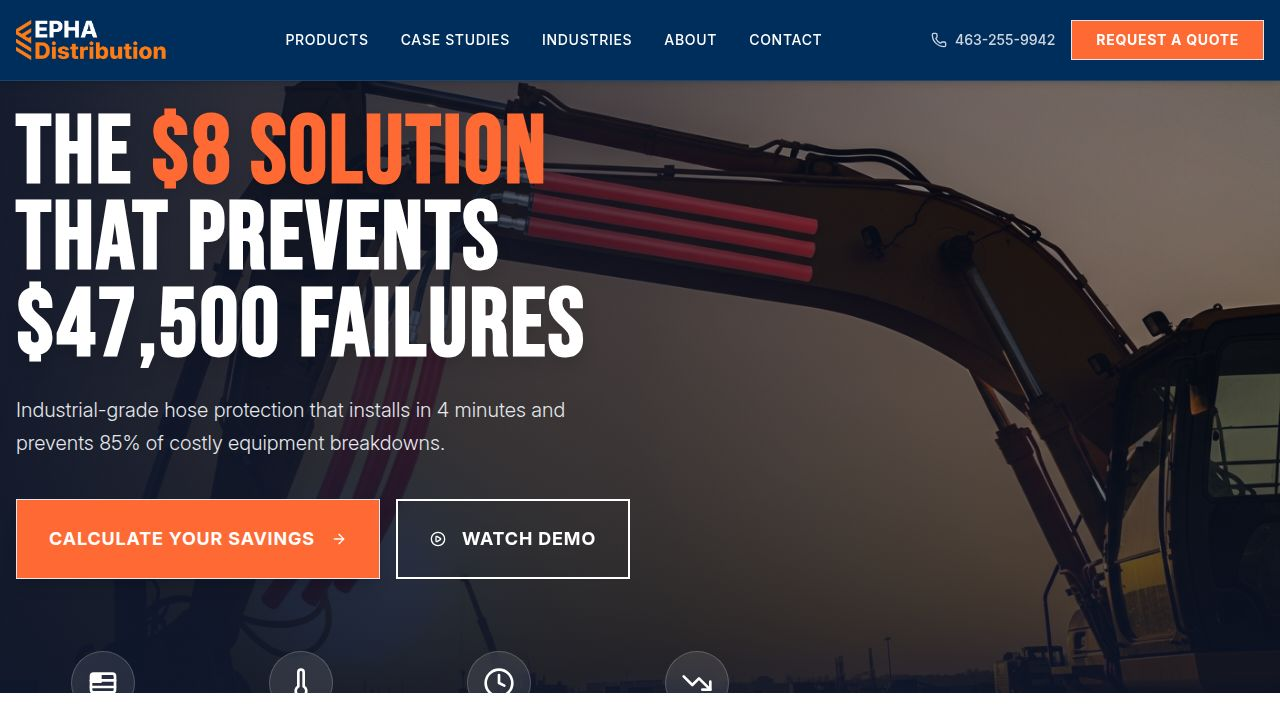
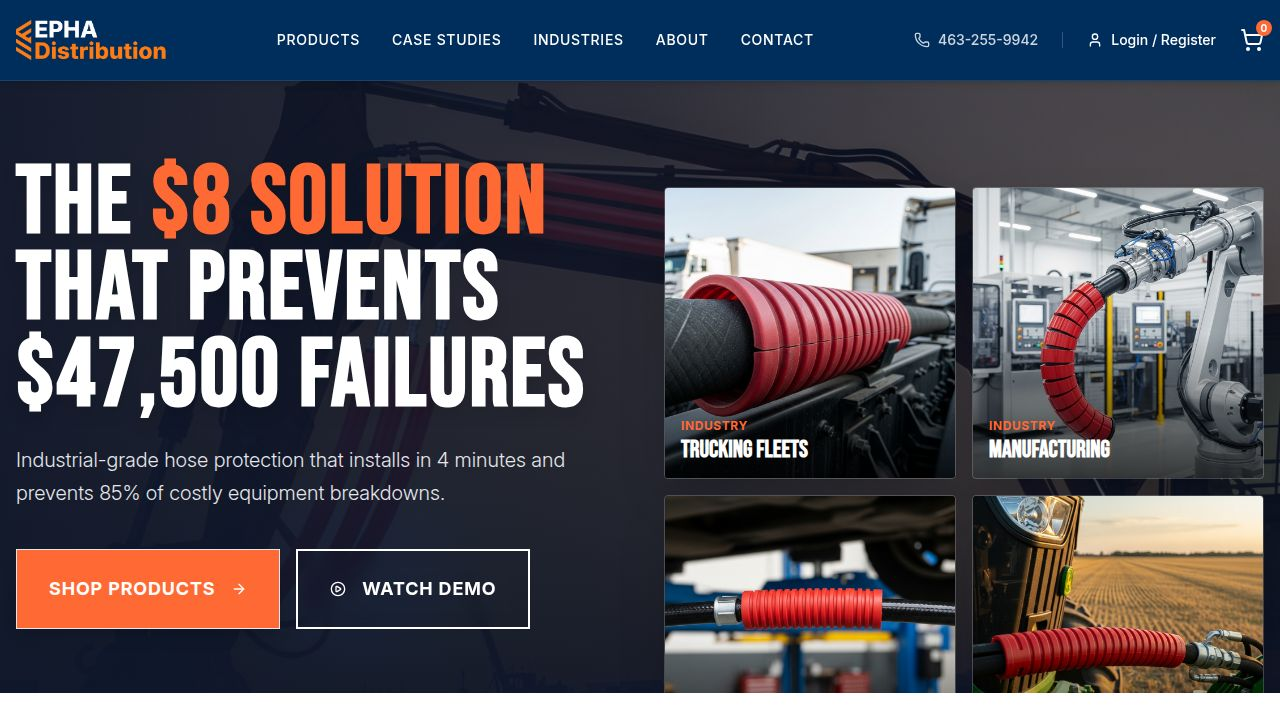
Add product usage photos to the hero section in a grid layout
Update Hero component to include a 2x2 grid of product usage images on the right side, enhancing visual context.

Replit-Commit-Author: Agent
Replit-Commit-Session-Id: 0da39d99-1b5d-47ea-ae14-3717eddf603a
Replit-Commit-Checkpoint-Type: full_checkpoint
Replit-Commit-Event-Id: 94fc312d-3253-4561-ba65-cebd13b98155
Replit-Commit-Screenshot-Url: https://storage.googleapis.com/screenshot-production-us-central1/6fe40cc1-d4aa-4ef6-a21b-6d0a266b7cfa/0da39d99-1b5d-47ea-ae14-3717eddf603a/wERJvKO
Replit-Helium-Checkpoint-Created: true

diff --git a/client/src/components/Hero.tsx b/client/src/components/Hero.tsx
@@ -1,6 +1,10 @@
 import { Button } from "@/components/ui/button";
 import { ArrowRight, Shield, Thermometer, Clock, TrendingDown, PlayCircle } from "lucide-react";
 import heroImage from "@assets/generated_images/excavator_at_golden_hour_with_red_hose_protectors.png";
+import truckingImage from "@assets/generated_images/hose_protector_on_semi-truck_hydraulic_line.png";
+import manufacturingImage from "@assets/generated_images/hose_protector_in_manufacturing_plant.png";
+import autoRepairImage from "@assets/generated_images/hose_protector_in_auto_repair_shop.png";
+import agImage from "@assets/generated_images/hose_protector_on_agricultural_tractor.png";
 
 export function Hero() {
   return (
@@ -12,11 +16,11 @@ export function Hero() {
       />
       
       {/* Gradient Overlay */}
-      <div className="absolute inset-0 bg-gradient-to-r from-slate-900/95 via-slate-900/60 to-transparent" />
+      <div className="absolute inset-0 bg-gradient-to-r from-slate-900/95 via-slate-900/80 to-slate-900/40" />
       <div className="absolute inset-0 bg-gradient-to-t from-slate-900/80 to-transparent" />
 
-      <div className="container relative mx-auto h-full flex flex-col justify-center px-4 pt-20">
-        <div className="max-w-3xl space-y-6">
+      <div className="container relative mx-auto h-full grid lg:grid-cols-2 gap-12 items-center px-4 pt-20">
+        <div className="space-y-6">
           <h1 className="font-heading text-6xl md:text-7xl lg:text-8xl font-bold text-white uppercase leading-[0.9] drop-shadow-xl">
             The <span className="text-accent">$8 Solution</span> <br />
             That Prevents <br />
@@ -54,9 +58,34 @@ export function Hero() {
             <TrustBadge icon={TrendingDown} label="85% Fewer Failures" />
           </div>
         </div>
+
+        {/* 2x2 Image Grid */}
+        <div className="hidden lg:grid grid-cols-2 gap-4">
+          <UseCaseImage src={truckingImage} label="Trucking Fleets" />
+          <UseCaseImage src={manufacturingImage} label="Manufacturing" />
+          <UseCaseImage src={autoRepairImage} label="Auto Repair" />
+          <UseCaseImage src={agImage} label="Agriculture" />
+        </div>
       </div>
     </section>
   );
+}
+
+function UseCaseImage({ src, label }: { src: string, label: string }) {
+  return (
+    <div className="relative group overflow-hidden rounded-lg aspect-square border border-white/20 shadow-2xl">
+      <img 
+        src={src} 
+        alt={label}
+        className="object-cover w-full h-full hover:scale-110 transition-transform duration-700" 
+      />
+      <div className="absolute inset-0 bg-gradient-to-t from-black/90 via-transparent to-transparent opacity-80" />
+      <div className="absolute bottom-0 inset-x-0 p-4">
+        <div className="text-accent text-xs font-bold uppercase tracking-wider mb-1">Industry</div>
+        <div className="text-white font-heading text-2xl font-bold uppercase leading-none">{label}</div>
+      </div>
+    </div>
+  )
 }
 
 function USFlagIcon(props: React.ComponentProps<"svg">) {
